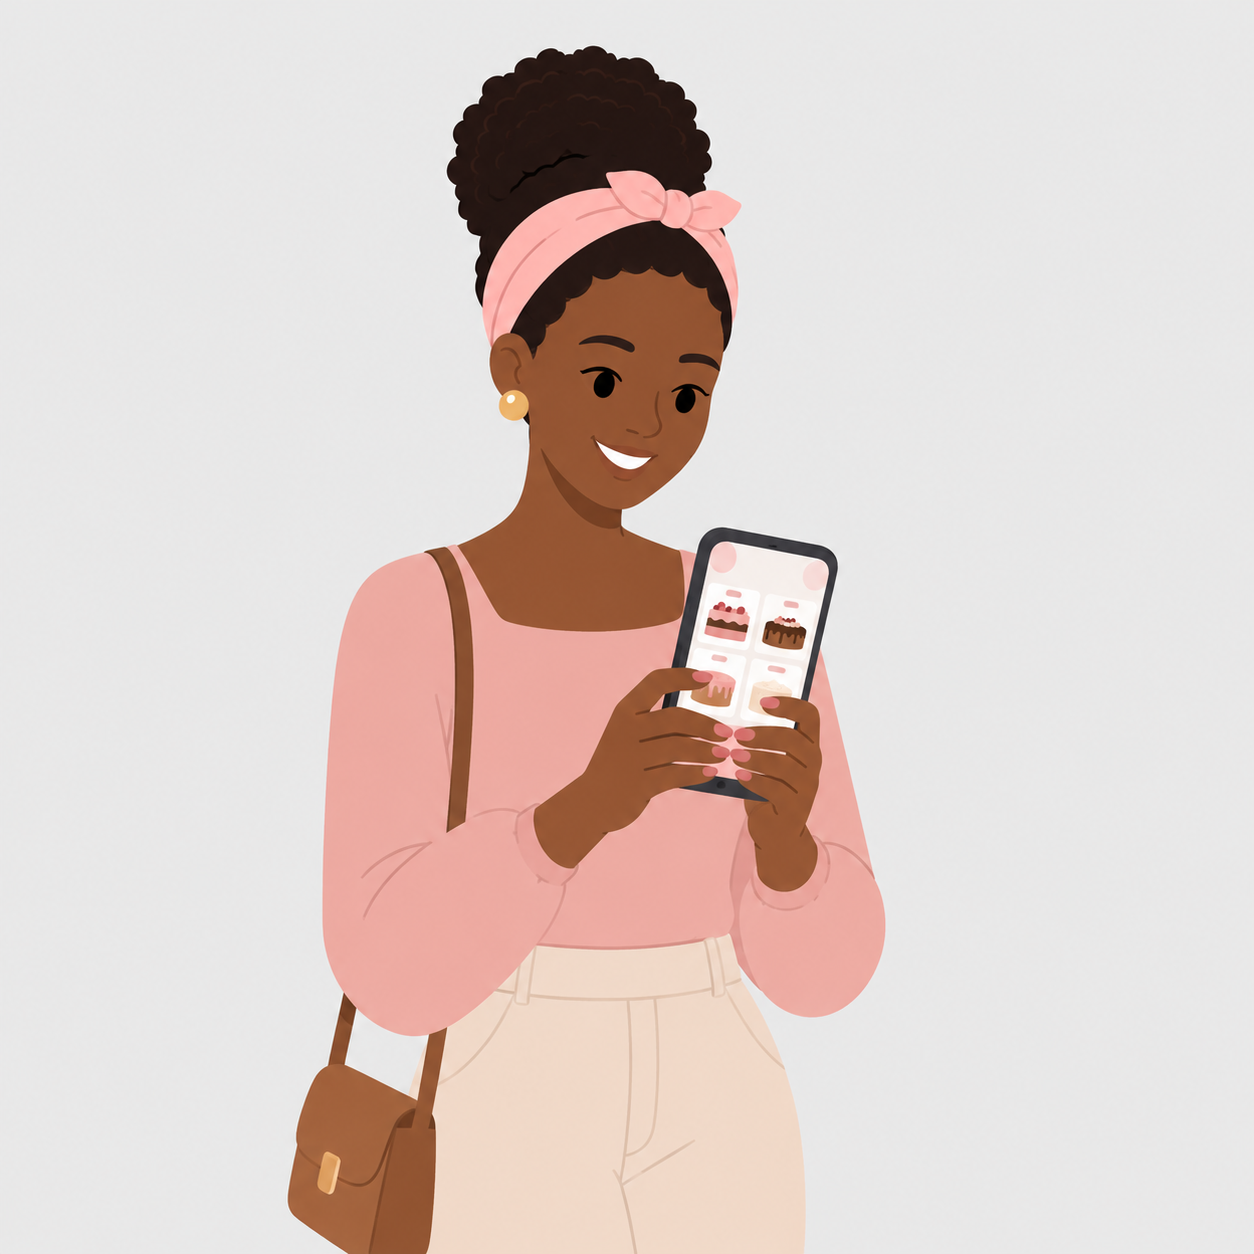
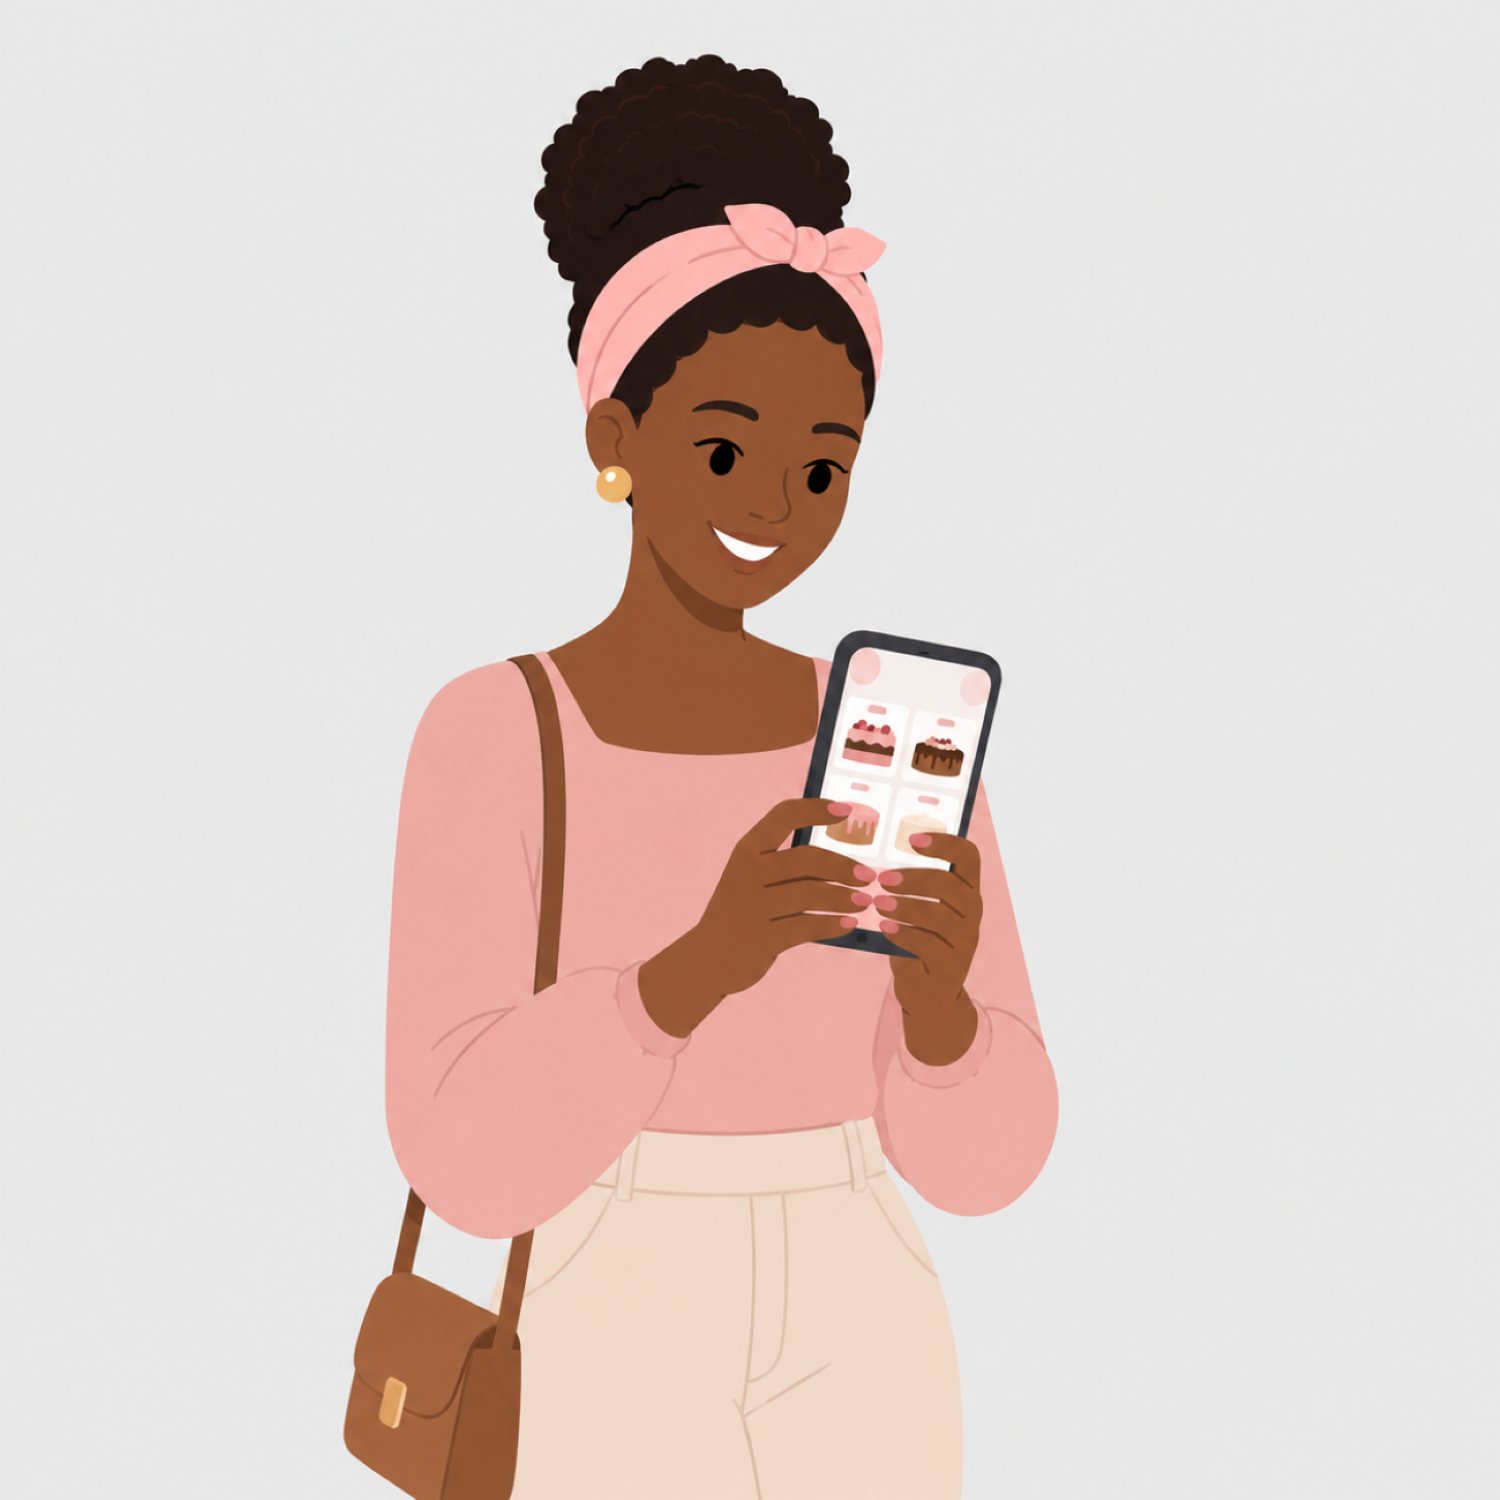
Improve the production page displaying by adding JavaScript

Changed region(s): [[0.622, 0.4976, 0.6531, 0.5598]]

diff --git a/src/pages/admin/ProductionPage.tsx b/src/pages/admin/ProductionPage.tsx
@@ -44,13 +44,19 @@ export default function ProductionPage() {
   const dateDebut = monday.toISOString().split('T')[0];
   const today = new Date().toISOString().split('T')[0];
 
+  // Controlled tab state so clicking a day card can switch tabs programmatically
+  const [activeTab, setActiveTab] = useState<'planning' | 'jour'>('planning');
+  // Tracks which date's data the "Fiche du jour" tab should show.
+  // Defaults to today; clicking a different day card in Planning semaine updates this.
+  const [selectedDate, setSelectedDate] = useState<string>(today);
+
   const planningQ = useQuery({
     queryKey: ['planning', dateDebut],
     queryFn: () => productionService.planning(dateDebut),
   });
   const ficheQ = useQuery({
-    queryKey: ['fiche-jour', today],
-    queryFn: () => productionService.ficheJour(today),
+    queryKey: ['fiche-jour', selectedDate],
+    queryFn: () => productionService.ficheJour(selectedDate),
   });
 
   const terminerMut = useMutation({
@@ -78,11 +84,17 @@ export default function ProductionPage() {
     return d.toISOString().split('T')[0];
   });
 
+  // Clicking a day card jumps to "Fiche du jour" pre-loaded with that day's data
+  const handleDayClick = (date: string) => {
+    setSelectedDate(date);
+    setActiveTab('jour');
+  };
+
   const formData = ficheQ.data as { lines?: FicheLine[]; totalCakes?: number; overload?: boolean } | undefined;
   const todayItems = (formData?.lines || []) as FicheLine[];
   const totalCakes: number = formData?.totalCakes || 0;
   const isSurcharge: boolean = formData?.overload || false;
-  
+
   let ficheContent: ReactNode;
   if (ficheQ.isLoading) {
     ficheContent = <LoadingState />;
@@ -92,42 +104,84 @@ export default function ProductionPage() {
     ficheContent = <EmptyState message="Rien à produire aujourd'hui" icon={ChefHat} />;
   } else {
     ficheContent = (
-      <div className="overflow-x-auto -mx-4 sm:mx-0 rounded-lg">
-        <table className="w-full min-w-[540px] text-sm">
-          <thead className="bg-secondary/50 text-xs text-muted-foreground">
-            <tr>
-              <th className="w-8 p-3 text-left">✓</th>
-              <th className="min-w-[120px] p-3 text-left">Produit</th>
-              <th className="w-12 p-3 text-left">Qté</th>
-              <th className="min-w-[120px] p-3 text-left">Client</th>
-              <th className="min-w-[120px] p-3 text-left">Personnalisation</th>
-              <th className="w-16 p-3 text-left">N°</th>
-            </tr>
-          </thead>
-          <tbody>
-            {todayItems.map((ligne) => {
-              const done = ligne.isFinished === true;
-              return (
-                <tr key={`${ligne.commandeId}`} className="border-t border-border">
-                  <td className="p-3">
+      <>
+        <div className="hidden md:block overflow-x-auto rounded-lg">
+          <table className="w-full min-w-[540px] text-sm">
+            <thead className="bg-secondary/50 text-xs text-muted-foreground">
+              <tr>
+                <th className="w-8 p-3 text-left">✓</th>
+                <th className="min-w-[120px] p-3 text-left">Produit</th>
+                <th className="w-12 p-3 text-left">Qté</th>
+                <th className="min-w-[120px] p-3 text-left">Client</th>
+                <th className="min-w-[120px] p-3 text-left">Personnalisation</th>
+                <th className="w-16 p-3 text-left">N°</th>
+              </tr>
+            </thead>
+            <tbody>
+              {todayItems.map((ligne) => {
+                const done = ligne.isFinished === true;
+                return (
+                  <tr key={`${ligne.commandeId}`} className="border-t border-border">
+                    <td className="p-3">
+                      <Checkbox
+                        checked={done}
+                        onCheckedChange={() => terminerMut.mutate(ligne.commandeId)}
+                      />
+                    </td>
+                    <td className={cn('p-3 font-medium', done && 'line-through opacity-50')}>
+                      {ligne.productName}
+                    </td>
+                    <td className="p-3">{ligne.quantity}</td>
+                    <td className="p-3">{ligne.clientName}</td>
+                    <td className="p-3 text-xs text-muted-foreground">{ligne.cakeMessage || '—'}</td>
+                    <td className="p-3 text-xs text-muted-foreground">{ligne.noCommande}</td>
+                  </tr>
+                );
+              })}
+            </tbody>
+          </table>
+        </div>
+
+        {/* ── Mobile: KPI-style stacked cards, same pattern as the Commandes page ── */}
+        <div className="md:hidden space-y-3 p-3">
+          {todayItems.map((ligne) => {
+            const done = ligne.isFinished === true;
+            return (
+              <Card
+                key={`${ligne.commandeId}`}
+                className={cn('shadow-sm', done && 'opacity-60')}
+              >
+                <CardContent className="p-4">
+                  <div className="flex items-start gap-3">
                     <Checkbox
                       checked={done}
                       onCheckedChange={() => terminerMut.mutate(ligne.commandeId)}
+                      className="mt-1"
                     />
-                  </td>
-                  <td className={cn('p-3 font-medium', done && 'line-through opacity-50')}>
-                    {ligne.productName}
-                  </td>
-                  <td className="p-3">{ligne.quantity}</td>
-                  <td className="p-3">{ligne.clientName}</td>
-                  <td className="p-3 text-xs text-muted-foreground">{ligne.cakeMessage || '—'}</td>
-                  <td className="p-3 text-xs text-muted-foreground">{ligne.noCommande}</td>
-                </tr>
-              );
-            })}
-          </tbody>
-        </table>
-      </div>
+                    <div className="flex-1 min-w-0">
+                      <div className="flex items-center justify-between gap-2">
+                        <p className={cn('font-display font-semibold', done && 'line-through opacity-60')}>
+                          {ligne.productName}
+                        </p>
+                        <span className="shrink-0 text-xs font-semibold bg-primary/10 text-primary px-2 py-0.5 rounded-full">
+                          x{ligne.quantity}
+                        </span>
+                      </div>
+                      <p className="text-sm text-muted-foreground mt-1">{ligne.clientName}</p>
+                      {ligne.cakeMessage && (
+                        <p className="text-xs text-muted-foreground mt-1 italic">
+                          "{ligne.cakeMessage}"
+                        </p>
+                      )}
+                      <p className="text-[11px] text-muted-foreground/70 mt-2">{ligne.noCommande}</p>
+                    </div>
+                  </div>
+                </CardContent>
+              </Card>
+            );
+          })}
+        </div>
+      </>
     );
   }
 
@@ -143,7 +197,7 @@ export default function ProductionPage() {
         <p className="text-muted-foreground text-sm">Planning et fiche du jour</p>
       </div>
 
-      <Tabs defaultValue="planning">
+      <Tabs value={activeTab} onValueChange={(v) => setActiveTab(v as 'planning' | 'jour')}>
         <TabsList>
           <TabsTrigger value="planning">Planning semaine</TabsTrigger>
           <TabsTrigger value="jour">Fiche du jour</TabsTrigger>
@@ -159,10 +213,21 @@ export default function ProductionPage() {
               {week.map((d, i) => {
                 const orders = byDay[d] || [];
                 const overload = orders.length > 5;
+                const isToday = d === today;
                 return (
                   <Card
                     key={d}
-                    className={cn('shadow-sm', overload && 'border-warning bg-warning/5', d === today && 'ring-2 ring-primary')}
+                    role="button"
+                    tabIndex={0}
+                    onClick={() => handleDayClick(d)}
+                    onKeyDown={(e) => {
+                      if (e.key === 'Enter' || e.key === ' ') handleDayClick(d);
+                    }}
+                    className={cn(
+                      'shadow-sm cursor-pointer transition-shadow hover:shadow-md focus:outline-none focus-visible:ring-2 focus-visible:ring-primary',
+                      overload && 'border-warning bg-warning/5',
+                      isToday && 'ring-2 ring-primary'
+                    )}
                   >
                     <CardContent className="p-3">
                       <p className="text-xs text-muted-foreground">{days[i]}</p>
@@ -185,7 +250,9 @@ export default function ProductionPage() {
 
         <TabsContent value="jour" className="space-y-4 pt-4">
           <div className="flex justify-between items-center">
-            <h2 className="font-display font-semibold">Production d'aujourd'hui</h2>
+            <h2 className="font-display font-semibold">
+              Production du {new Date(selectedDate).toLocaleDateString('fr-FR', { weekday: 'long', day: 'numeric', month: 'long' })}
+            </h2>
             <Button variant="outline" size="sm" className="gap-2" onClick={() => window.print()}>
               <Printer className="w-4 h-4" /> Imprimer
             </Button>

diff --git a/src/pages/LandingPage.tsx b/src/pages/LandingPage.tsx
@@ -10,8 +10,6 @@ import { formatFCFA } from '@/lib/format';
 import { useAuthStore } from '@/stores/authStore';
 import api from '@/lib/api';
 
-// ─── Reusable animation variants ─────────────────────────────────────────────
-
 const fadeUp: Variants = {
   hidden: { opacity: 0, y: 32 },
   visible: (delay = 0) => ({
@@ -56,8 +54,6 @@ const slideRight: Variants = {
   },
 };
 
-// ─── Scroll-reveal wrapper ────────────────────────────────────────────────────
-
 function RevealOnScroll({
   children,
   variants = fadeUp,
@@ -86,8 +82,6 @@ function RevealOnScroll({
   );
 }
 
-// ─── Floating decoration shapes (hero bg) ────────────────────────────────────
-
 function FloatingBlob({
   className,
   delay = 0,
@@ -108,8 +102,6 @@ function FloatingBlob({
     />
   );
 }
-
-// ─── Hero slider data ─────────────────────────────────────────────────────────
 
 const heroSlides = [
   {
@@ -133,8 +125,6 @@ const heroSlides = [
     caption: 'Livré chez vous, frais et à temps',
   },
 ];
-
-// ─── Hero slider component ────────────────────────────────────────────────────
 
 function HeroSection() {
   const navigate = useNavigate();
@@ -176,7 +166,6 @@ function HeroSection() {
           </motion.p>
         </motion.div>
 
-        {/* Slider — takes ALL remaining vertical space via flex-1, image shown in full via object-contain */}
         <motion.div
           className="w-full flex-1 min-h-0"
           variants={scaleIn}
@@ -186,7 +175,6 @@ function HeroSection() {
           <HeroSlider slides={heroSlides} />
         </motion.div>
 
-        {/* CTA buttons */}
         <motion.div
           className="flex flex-wrap justify-center gap-3 flex-shrink-0"
           initial={{ opacity: 0, y: 20 }}
@@ -194,15 +182,11 @@ function HeroSection() {
           transition={{ delay: 0.3, duration: 0.6 }}
         >
           <motion.div whileHover={{ scale: 1.04 }} whileTap={{ scale: 0.97 }}>
-            {/* Primary CTA: uses --primary (terracotta), the only token in this palette
-                with enough contrast/weight to act as a real call-to-action */}
             <Button size="lg" variant="default" onClick={() => navigate('/signup')}>
               Créer un compte
             </Button>
           </motion.div>
           <motion.div whileHover={{ scale: 1.04 }} whileTap={{ scale: 0.97 }}>
-            {/* Secondary action: outline reads cleanly against the cream hero background
-                regardless of --secondary's lightness, so it's the safer pick here */}
             <Button size="lg" variant="outline" onClick={() => navigate('/login')}>
               Se connecter
             </Button>
@@ -212,8 +196,6 @@ function HeroSection() {
     </section>
   );
 }
-
-// ─── Hero slider — height now driven by parent container, not its own aspect-ratio ──
 
 function HeroSlider({ slides, intervalMs = 4000 }: { slides: typeof heroSlides; intervalMs?: number }) {
   const [index, setIndex] = useState(0);
@@ -258,9 +240,6 @@ function HeroSlider({ slides, intervalMs = 4000 }: { slides: typeof heroSlides; 
           exit={{ opacity: 0, scale: 0.98 }}
           transition={{ duration: 0.6, ease: [0.22, 1, 0.36, 1] }}
         >
-          {/* Theme-colored backdrop fills empty space reliably — blur-based backdrops
-              can look like flat color anyway if the source image has plain edges,
-              so a deliberate gradient in the brand palette is more predictable */}
           <div className="absolute inset-0 bg-gradient-to-br from-primary/25 via-accent/15 to-primary/20" />
           <img
             src={slides[index].src}
@@ -317,8 +296,6 @@ function HeroSlider({ slides, intervalMs = 4000 }: { slides: typeof heroSlides; 
     </div>
   );
 }
-
-// ─── Main component ───────────────────────────────────────────────────────────
 
 export default function LandingPage() {
   const navigate = useNavigate();
